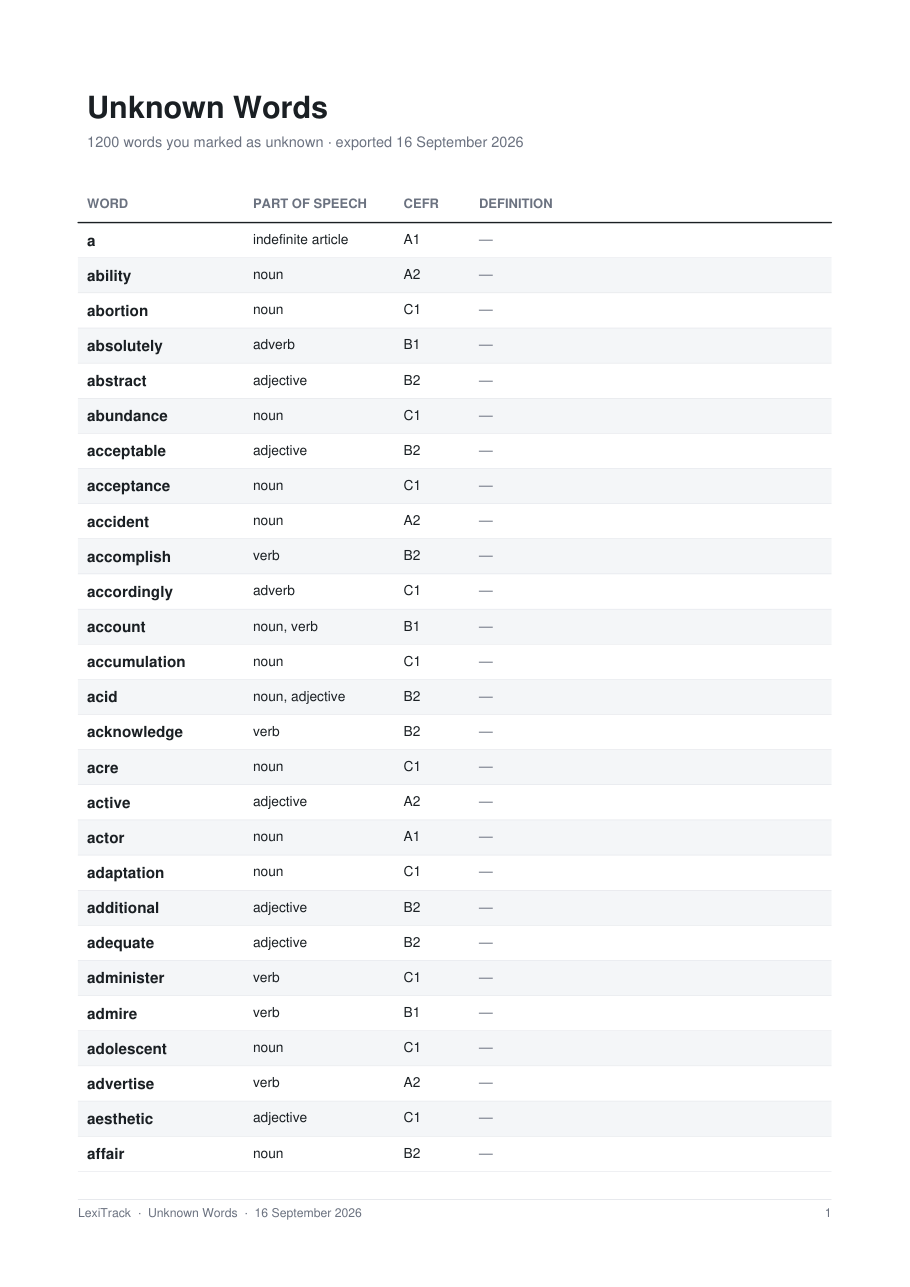
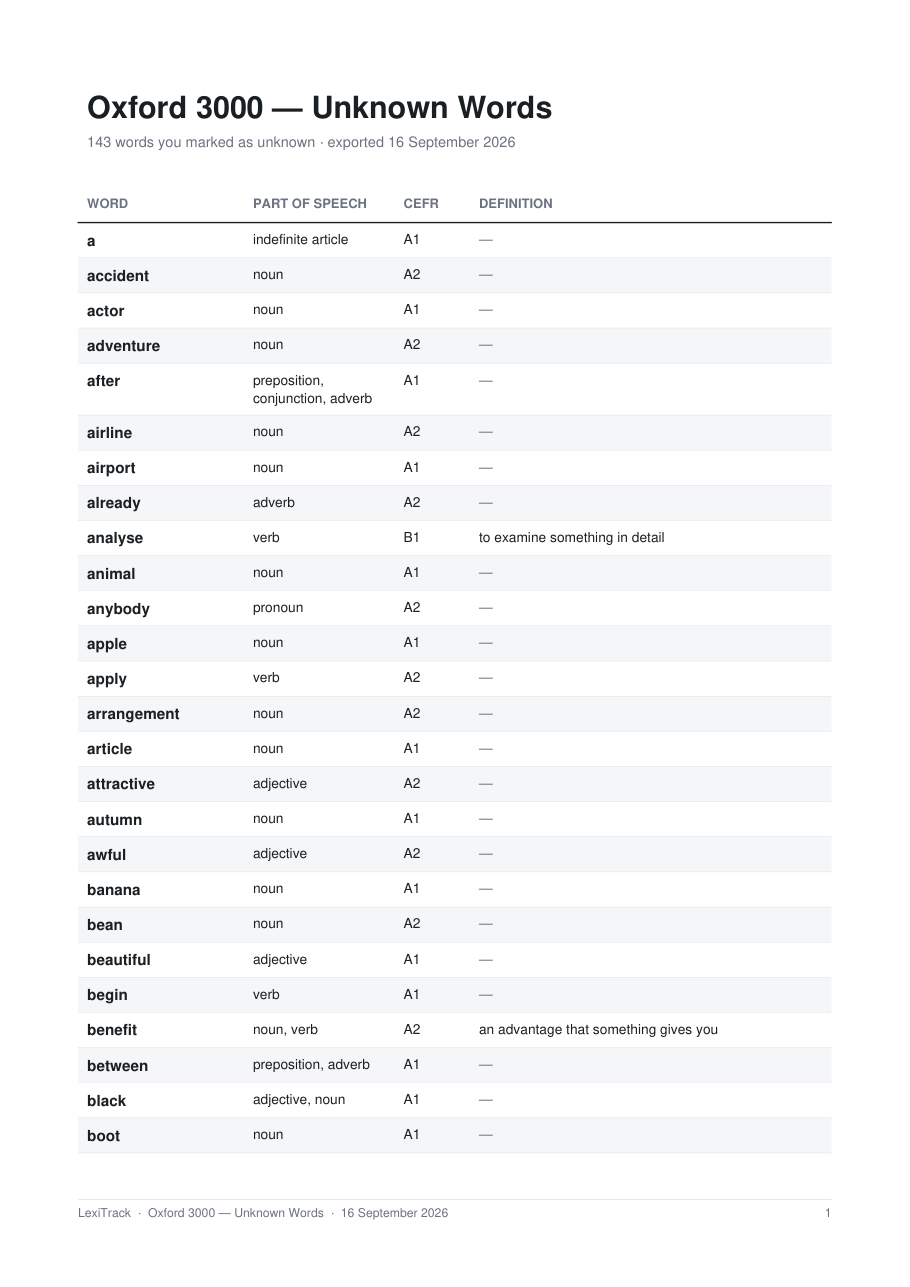
fix: import preview styling and checkbox ticks; regenerate screenshots
The container inside each import panel painted the window colour as a
grey block inside the white panel, and the file checkbox had no label.
The file name is now the checkbox's own label, containers inside panels
are transparent, and ticked checkboxes show a check glyph in both themes
rather than a plain filled square.

Replaces the version 1 screenshots with ones taken from the running
application. tools/screenshots.py regenerates them from sample data in a
temporary folder and settings scope, so no personal vocabulary appears.

diff --git a/tools/screenshots.py b/tools/screenshots.py
@@ -1,0 +1,121 @@
+"""Regenerate the README screenshots from the running application.
+
+Uses the same sample data as ``design_mockups.py`` (the Oxford PDFs when they
+are in ``pdfs/``, plus the lists in ``examples/``), in a temporary data folder
+and a separate settings scope, so a developer's own vocabulary and settings are
+never touched or shown.
+
+Usage::
+
+    python tools/screenshots.py        # writes docs/screenshots/*.png
+"""
+
+from __future__ import annotations
+
+import os
+import sys
+import tempfile
+from pathlib import Path
+
+ROOT = Path(__file__).resolve().parents[1]
+sys.path.insert(0, str(ROOT))
+sys.path.insert(0, str(ROOT / "tools"))
+os.environ["LEXITRACK_DATA_DIR"] = tempfile.mkdtemp(prefix="lexitrack-screenshots-")
+
+import pymupdf  # noqa: E402
+from design_mockups import build_sample  # noqa: E402
+from PySide6.QtCore import QSettings  # noqa: E402
+from PySide6.QtWidgets import QApplication  # noqa: E402
+
+from lexitrack.database.connection import Database  # noqa: E402
+from lexitrack.services.vocabulary_service import VocabularyService  # noqa: E402
+from lexitrack.ui.components.cards import ModeSwitch  # noqa: E402
+from lexitrack.ui.import_dialog import ImportDialog  # noqa: E402
+from lexitrack.ui.main_window import HOME, UNKNOWN, MainWindow  # noqa: E402
+from lexitrack.ui.theme import ThemeManager, ThemeName  # noqa: E402
+
+OUT = ROOT / "docs" / "screenshots"
+SIZE = (1180, 780)
+
+
+def main() -> int:
+    app = QApplication.instance() or QApplication(sys.argv[:1])
+    app.setStyle("Fusion")
+    app.setOrganizationName("LexiTrackScreenshots")
+    app.setApplicationName("LexiTrackScreenshots")
+    QSettings().clear()
+
+    theme = ThemeManager(app)
+    theme.apply(ThemeName.LIGHT)
+    data = Path(os.environ["LEXITRACK_DATA_DIR"])
+    service = VocabularyService(Database(data / "vocabulary.db"))
+    lists = build_sample(service)
+    current = lists.get("Oxford 3000") or lists["German A1"]
+
+    OUT.mkdir(parents=True, exist_ok=True)
+    window = MainWindow(service, theme)
+    window.resize(*SIZE)
+    window.show()
+
+    def grab(widget, name: str) -> None:
+        app.processEvents()
+        widget.grab().save(str(OUT / f"{name}.png"))
+        print("wrote", f"docs/screenshots/{name}.png")
+
+    def flashcard_with_history() -> None:
+        window.open_review(current, ModeSwitch.FLASHCARD)
+        review = window.review
+        review.flashcard.answered.emit(True)
+        review.flashcard.answered.emit(False)
+        review.flashcard.back_requested.emit()
+
+    for name in (ThemeName.LIGHT, ThemeName.DARK):
+        theme.apply(name)
+        window._update_theme_labels()
+        suffix = "" if name is ThemeName.LIGHT else "-dark"
+
+        window.show_page(HOME)
+        grab(window, f"home{suffix}")
+
+        flashcard_with_history()
+        grab(window, f"flashcard{suffix}")
+
+        if name is ThemeName.LIGHT:
+            window.review.set_mode(ModeSwitch.LIST)
+            table = window.review.table
+            table.select_ids([w.id for w in table.model.words[7:10]])
+            grab(window, "list-mode")
+
+            window.show_page(UNKNOWN)
+            unknown = window.unknown.table
+            unknown.select_ids([w.id for w in unknown.model.words[2:4]])
+            grab(window, "unknown-words")
+
+            dialog = ImportDialog(
+                service,
+                parent=window,
+                initial_paths=[ROOT / "examples" / "simple_list.json"],
+            )
+            dialog.resize(660, 640)
+            dialog.show()
+            dialog._read()
+            while dialog.pages.currentIndex() != ImportDialog._PREVIEW:
+                app.processEvents()
+            grab(dialog, "import-preview")
+            dialog.close()
+
+    pdf = service.export(
+        service.export_content_for_unknown(current), data / "unknown.pdf", "pdf"
+    )
+    document = pymupdf.open(pdf)
+    document[0].get_pixmap(dpi=110).save(str(OUT / "export-pdf.png"))
+    document.close()
+    print("wrote docs/screenshots/export-pdf.png")
+
+    window.close()
+    QSettings().clear()
+    return 0
+
+
+if __name__ == "__main__":
+    raise SystemExit(main())

diff --git a/lexitrack/ui/import_dialog.py b/lexitrack/ui/import_dialog.py
@@ -184,18 +184,14 @@ class FilePanel(QFrame):
         layout.setContentsMargins(m.space_4, m.space_3, m.space_4, m.space_4)
         layout.setSpacing(m.space_2)
 
-        top = QHBoxLayout()
-        self.include = QCheckBox()
-        self.include.setToolTip("Include this file")
+        # The file name is the checkbox label: unticking it skips the file.
+        self.include = QCheckBox(outcome.path.name)
+        self.include.setObjectName("FileCheck")
+        self.include.setToolTip("Untick to skip this file")
         self.include.setChecked(outcome.preview is not None)
         self.include.setEnabled(outcome.preview is not None)
         self.include.toggled.connect(self._on_include)
-        top.addWidget(self.include)
-        name = QLabel(outcome.path.name)
-        name.setObjectName("ListCardName")
-        top.addWidget(name)
-        top.addStretch(1)
-        layout.addLayout(top)
+        layout.addWidget(self.include)
 
         if outcome.preview is None:
             error = QLabel(outcome.error or "This file could not be read.")
@@ -217,6 +213,7 @@ class FilePanel(QFrame):
             layout.addWidget(label)
 
         self.body = QWidget()
+        self.body.setObjectName("PanelBody")
         body = QVBoxLayout(self.body)
         body.setContentsMargins(0, m.space_2, 0, 0)
         body.setSpacing(m.space_2)

diff --git a/lexitrack/ui/theme/component_styles.py b/lexitrack/ui/theme/component_styles.py
@@ -17,6 +17,7 @@ _ICONS = Path(__file__).with_name("icons")
 def component_rules(p: Palette) -> str:
     m = METRICS
     chevron = (_ICONS / f"chevron-down-{p.name.value}.svg").as_posix()
+    check = (_ICONS / f"check-{p.name.value}.svg").as_posix()
     return f"""
 /* ------------------------------------------------------------ page chrome */
 
@@ -72,6 +73,11 @@ QPushButton#ContextListButton::menu-indicator {{ image: none; width: 0; }}
 #ErrorText {{ color: {p.danger}; font-size: 13px; }}
 #WarningText {{ color: {p.unknown_text}; font-size: 13px; }}
 #Faint {{ color: {p.text_faint}; font-size: 12px; }}
+
+/* Plain containers inside a panel show the panel through, instead of painting
+   the window colour as a grey block. */
+#PanelBody {{ background: transparent; }}
+QCheckBox#FileCheck {{ font-size: 15px; font-weight: 600; }}
 
 /* A raised panel. Used sparingly: most structure is whitespace. */
 #Panel {{
@@ -254,7 +260,11 @@ QCheckBox::indicator {{
     background-color: {p.surface};
 }}
 QCheckBox::indicator:hover {{ border-color: {p.accent}; }}
-QCheckBox::indicator:checked {{ background-color: {p.accent}; border-color: {p.accent}; }}
+QCheckBox::indicator:checked {{
+    background-color: {p.accent};
+    border-color: {p.accent};
+    image: url("{check}");
+}}
 
 QListWidget {{
     background-color: {p.surface};

diff --git a/tests/test_ui.py b/tests/test_ui.py
@@ -615,8 +615,9 @@ def test_both_themes_produce_complete_and_different_stylesheets() -> None:
 
 def test_theme_icons_exist() -> None:
     icons = Path(__file__).resolve().parents[1] / "lexitrack" / "ui" / "theme" / "icons"
-    assert (icons / "chevron-down-light.svg").exists()
-    assert (icons / "chevron-down-dark.svg").exists()
+    for name in ("chevron-down", "check"):
+        for theme_name in ("light", "dark"):
+            assert (icons / f"{name}-{theme_name}.svg").exists()
 
 
 def test_toggling_switches_between_the_two_themes(theme) -> None:

diff --git a/lexitrack/__init__.py b/lexitrack/__init__.py
@@ -15,5 +15,5 @@ Nothing above the repository layer issues SQL, and nothing below the service
 layer knows that a UI exists.
 """
 
-__version__ = "0.1.0"
+__version__ = "0.2.0"
 __all__ = ["__version__"]
